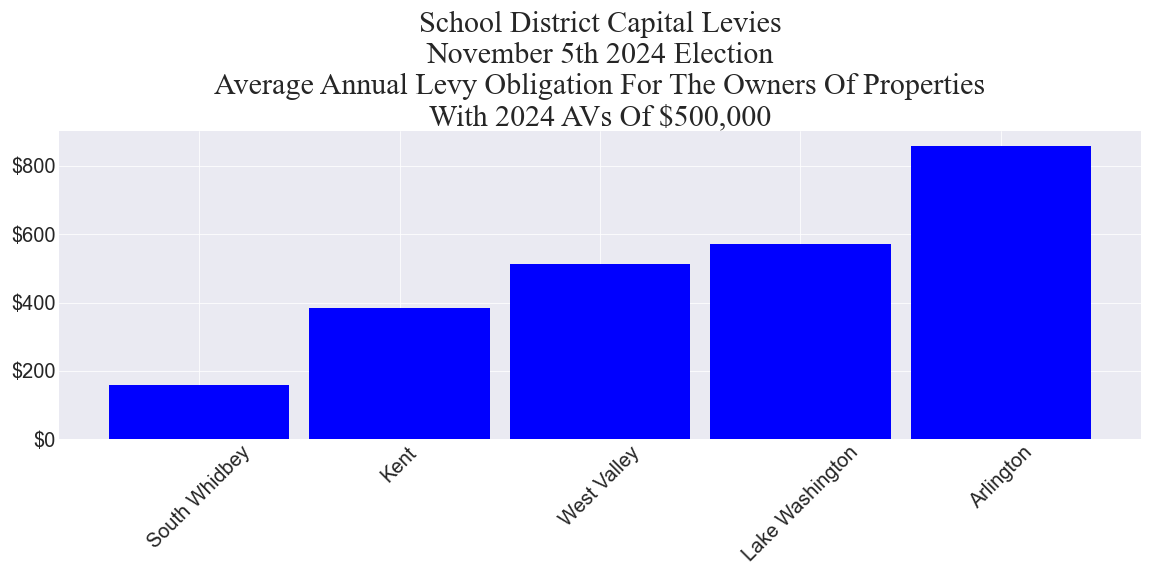
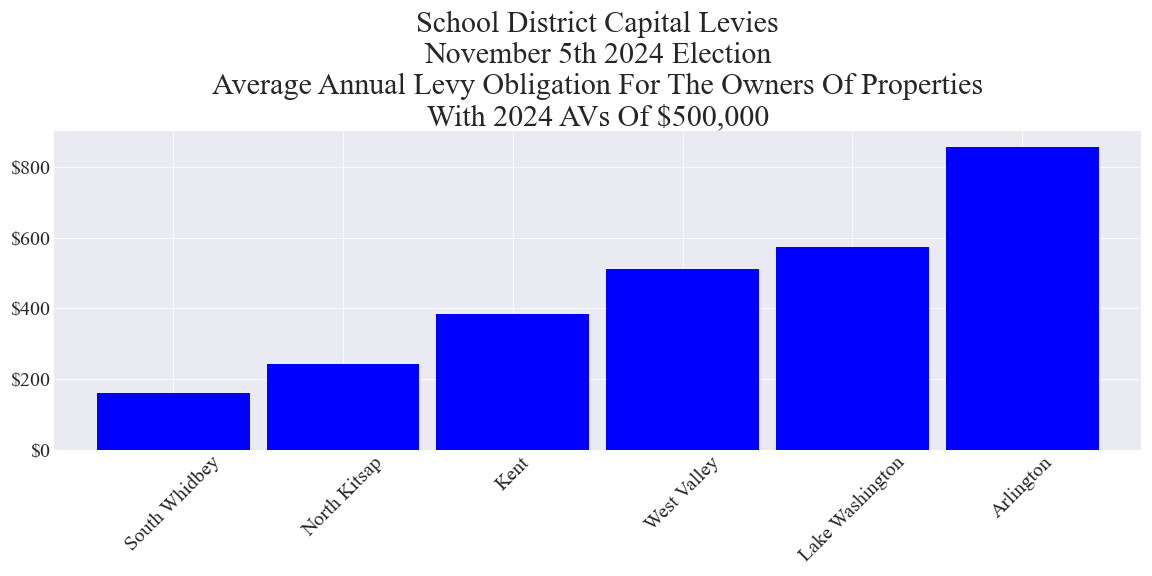
Updated elec 20241105
Added:
North Kitsap

diff --git a/_includes/cost_estimates/20241105/NorthKitsap_Capital_20241105_Enhanced.html b/_includes/cost_estimates/20241105/NorthKitsap_Capital_20241105_Enhanced.html
@@ -1,0 +1,206 @@
+<html>
+ <head>
+  <script type="text/javascript" src="https://www.gstatic.com/charts/loader.js"></script>
+  <script type="text/javascript">
+    google.charts.load('current', {'packages':['corechart','bar','table']});
+    google.charts.setOnLoadCallback(drawStuff);
+
+	var table_input;
+	var table;
+	var chart;
+	var dataParcel;
+	
+	totalLevyAV = 13200480386;
+	sampleParcelAV = 500000;
+	sampleParcelAVMin = 100000;
+	sampleParcelAVMax = 1000000;
+	totalLevyCost = 31959250;
+	sampleParcelPOF = sampleParcelAV / totalLevyAV;
+	totalLevyCostParcel = sampleParcelPOF * totalLevyCost;
+	levyYears = 6;
+	averageTotalLevyCostParcel = totalLevyCostParcel / levyYears;
+	// POF Annual Change Percent
+	pofAdjust = 0;
+	pofAdjustMin = -2.0;
+	pofAdjustMax = 2.0;
+
+
+
+    function drawStuff() {
+		// Levy 1 schedule
+		data = new google.visualization.DataTable();
+		data.addColumn('string', 'Year');
+		data.addColumn('number', 'New Levy Amount');
+
+		data.addRows([
+			['2025', 10000000],
+			['2026', 11500000],
+			['2027', 2500000],
+			['2028', 2575000],
+			['2029', 2652250],
+			['2030', 2732000],
+
+		]);
+
+		// Levy 1 parcel data
+		dataParcel = new google.visualization.DataTable();
+		dataParcel.addColumn('string', 'Year');
+		dataParcel.addColumn('number', 'New Levy Amount');
+
+		dataParcel.addRows(levyYears);
+		sampleParcelPOFEffective = sampleParcelPOF;
+		totalLevyCostParcel = 0;
+		for (let i = 0; i < levyYears; i++) {
+			sampleParcelPOFEffective = sampleParcelPOF * (1 + pofAdjust/100) ** (1 + i);
+			dataParcel.setCell(i, 0, data.getValue(i, 0));
+			dataParcel.setCell(i, 1, data.getValue(i, 1) * sampleParcelPOFEffective);
+			totalLevyCostParcel = totalLevyCostParcel + data.getValue(i, 1) * sampleParcelPOFEffective;
+		}		
+		averageTotalLevyCostParcel = totalLevyCostParcel / levyYears;
+
+		options = {
+			title: 'Estimated Levy Cost Schedule For The Sample Parcel',
+			isStacked: true,
+			hAxis: {
+			title: '',
+			//format: 'h:mm a',
+			viewWindow: {
+				min: [7, 30, 0],
+				max: [17, 30, 0]
+			}
+        },
+        vAxis: {
+			title: '$'
+        }
+		};
+	  
+		
+
+		
+		// Levy 1 input data
+		// Sampler parcel AV table
+		table_input_data = new google.visualization.DataTable();
+		table_input_data.addColumn('string', 'Description');
+		table_input_data.addColumn('number', 'Value');
+		table_input_data.addRows([
+			['Sample Parcel 2024 Tax Year Assessed Value (AV)', sampleParcelAV],
+		]);
+
+		// POF Adjust table
+		// POF Adjust
+		table_pof_adjust_input_data = new google.visualization.DataTable();
+		table_pof_adjust_input_data.addColumn('string', 'Description');
+		table_pof_adjust_input_data.addColumn('number', 'Value');
+		table_pof_adjust_input_data.addRows([
+			['POF annual change', pofAdjust ],
+		]);
+
+		// Levy 1 output table
+		table_data = new google.visualization.DataTable();
+		table_data.addColumn('string', 'Description');
+		table_data.addColumn('number', 'New');
+		table_data.addRows([
+			['Total cost', totalLevyCostParcel],
+			['Average cost per year for 6 years', averageTotalLevyCostParcel],
+		
+		]);
+
+		// Levy 1 chart
+		chart = new google.visualization.ColumnChart(document.getElementById('chart_div'));
+		formatter = new google.visualization.NumberFormat(
+			{prefix: '$', fractionDigits:0, negativeColor: 'red', negativeParens: false});
+		formatterPercent = new google.visualization.NumberFormat(
+			{suffix: '%', fractionDigits:0, negativeColor: 'red', negativeParens: false});
+		formatterPercent1 = new google.visualization.NumberFormat(
+			{suffix: '%', fractionDigits:1, negativeColor: 'red', negativeParens: false});
+		formatter.format(dataParcel, 1); // Apply formatter to second column
+		//formatter.format(dataParcel, 2); // Apply formatter to third column
+		chart.draw(dataParcel, options);
+		
+		table = new google.visualization.Table(document.getElementById('table_output_div'));
+		formatter.format(table_data, 1); // Apply formatter to second column
+		table.draw(table_data, {sort:'disable'});
+		
+		// Input table for sample parcel AV
+		table_input = new google.visualization.Table(document.getElementById('table_input_div'));
+		formatter.format(table_input_data, 1); // Apply formatter to second column
+		table_input.draw(table_input_data, {sort:'disable'});
+
+		// Input table for POF change
+		table_pof_adjust_input = new google.visualization.Table(document.getElementById('table_pof_adjust_input_div'));
+		formatterPercent1.format(table_pof_adjust_input_data, 1); // Apply formatter to second column
+		table_pof_adjust_input.draw(table_pof_adjust_input_data, {sort:'disable'});
+    }
+
+    function changeParcelAV(dir) {
+		//Update table input
+		sampleParcelAV = sampleParcelAV + dir
+		if (sampleParcelAV < sampleParcelAVMin)
+			sampleParcelAV = sampleParcelAVMin
+		if (sampleParcelAV > sampleParcelAVMax)
+			sampleParcelAV = sampleParcelAVMax
+		sampleParcelPOF = sampleParcelAV / totalLevyAV;
+		table_input_data.setValue(0, 1, sampleParcelAV);
+		formatter.format(table_input_data, 1); // Apply formatter to second column
+		table_input.draw(table_input_data);
+		//Update chart 1
+		sampleParcelPOFEffective = sampleParcelPOF;
+		totalLevyCostParcel = 0;
+		//totalLevyPriorCostParcel = 0;
+		for (let i = 0; i < levyYears; i++) {
+			sampleParcelPOFEffective = sampleParcelPOF * (1 + pofAdjust/100) ** (1 + i);
+			dataParcel.setValue(i, 0, data.getValue(i, 0));
+			dataParcel.setValue(i, 1, data.getValue(i, 1) * sampleParcelPOFEffective);
+			totalLevyCostParcel = totalLevyCostParcel + data.getValue(i, 1) * sampleParcelPOFEffective;
+		}		
+		averageTotalLevyCostParcel = totalLevyCostParcel / levyYears;
+		formatter.format(dataParcel, 1); // Apply formatter to second column
+		chart.draw(dataParcel, options);
+		
+		//Update table output
+		table_data.setValue(0, 1, totalLevyCostParcel); // Total levy cost parcel
+		table_data.setValue(1, 1, averageTotalLevyCostParcel); // Average levy cost parcel
+		formatter.format(table_data, 1); // Apply formatter to second column
+		table.draw(table_data);
+    }
+	
+	function changePOFChange(dir) {
+		pofAdjust = pofAdjust + dir;
+		if (pofAdjust < pofAdjustMin)
+			pofAdjust = pofAdjustMin;
+		if (pofAdjust > pofAdjustMax)
+			pofAdjust = pofAdjustMax;
+		table_pof_adjust_input_data.setValue(0, 1, pofAdjust);
+		formatterPercent1.format(table_pof_adjust_input_data, 1); // Apply formatter to second column
+		table_pof_adjust_input.draw(table_pof_adjust_input_data);
+		changeParcelAV(0);
+	}
+
+  </script>
+ </head>
+ <body>
+  <H2>Property tax impact estimate calculator for the November 5th 2024 levy measure proposed by the North Kitsap SD</H2>
+  <p>Created by the author independently from and not associated with the school district</p>
+  <H3>Input</H3>
+  <div id="table_input_div" style="width:1200px; height: 60px;"></div>
+  <p></p>
+  <input type="button" value="Increase Sample Parcel 2024 Tax Year AV" onclick="changeParcelAV(25000)" />
+  <input type="button" value="Decrease Sample Parcel 2024 Tax Year AV" onclick="changeParcelAV(-25000)" />
+  <p></p>
+  <div id="table_pof_adjust_input_div" style="width:1200px; height: 60px;"></div>
+  <input type="button" value="Increase POF Annual Change" onclick="changePOFChange(0.1)" />
+  <input type="button" value="Decrease POF Annual Change" onclick="changePOFChange(-0.1)" />
+  <p></p>
+  <H3>Output</H3>
+  <H3>Capital Levy</H3>
+  <p>Estimated obligations for the sample parcel</P>
+  <div id="table_output_div" style="width:1200px; height: 130px;"></div>
+  <div id="chart_div" style="width:800px; height: 640px;"></div>
+  <p>POF: Proportional Obligation Factor equals the assessed value (AV) of the sample parcel divided by the Total AV of the properties within the district's tax area.</p>
+  <H3>Data Sources</H3>
+  <p>The district's levy resolution</p>
+  <p>The county assessor's website for historical property taxes</p>
+
+ </body>
+</html>
+

diff --git a/pagesManual/LeviesReport/20241105/KitsapCountyMeasures20241105.md b/pagesManual/LeviesReport/20241105/KitsapCountyMeasures20241105.md
@@ -1,0 +1,17 @@
+---
+layout: page
+title: Kitsap County School District Measures
+permalink: kitsapcountymeasures20241105
+---
+
+___
+
+### North Kitsap SD
+
+![North Kitsap SD capital levy totals chart](pagesManual/LeviesReport/20241105/NorthKitsapCapital.png "North Kitsap SD capital levy totals chart")
+![North Kitsap SD capital levy example parcel chart](pagesManual/LeviesReport/20241105/NorthKitsapCapitalParcel.png "North Kitsap SD capital  example parcel chart")
+
+[Link to the interactive calculator](calculator_north_kitsap_capital_20241105_enhanced){:target="_blank" rel="noopener"}
+
+___
+

diff --git a/pagesManual/LeviesReport/report_levies_20241105.md b/pagesManual/LeviesReport/report_levies_20241105.md
@@ -4,7 +4,7 @@ title: School District Tax Measures November 5th 2024
 permalink: report_levies_20241105
 ---
 
-Last updated: September 9th, 2024
+Last updated: September 12th, 2024
 
 Preliminary. In progress.
 
@@ -93,6 +93,8 @@ ___
 [Island](islandcountymeasures20241105)
 
 [King](kingcountymeasures20241105)
+
+[Kitsap](kitsapcountymeasures20241105)
 
 [Pierce](piercecountymeasures20241105)
 

diff --git a/pagesManual/LeviesReport/20241105/calculator_north_kitsap_capital_20241105_enhanced.md b/pagesManual/LeviesReport/20241105/calculator_north_kitsap_capital_20241105_enhanced.md
@@ -1,0 +1,12 @@
+---
+layout: page
+title: Calculator
+permalink: calculator_north_kitsap_capital_20241105_enhanced
+---
+
+___
+
+{% include cost_estimates/20241105/NorthKitsap_Capital_20241105_Enhanced.html %}
+
+___
+
